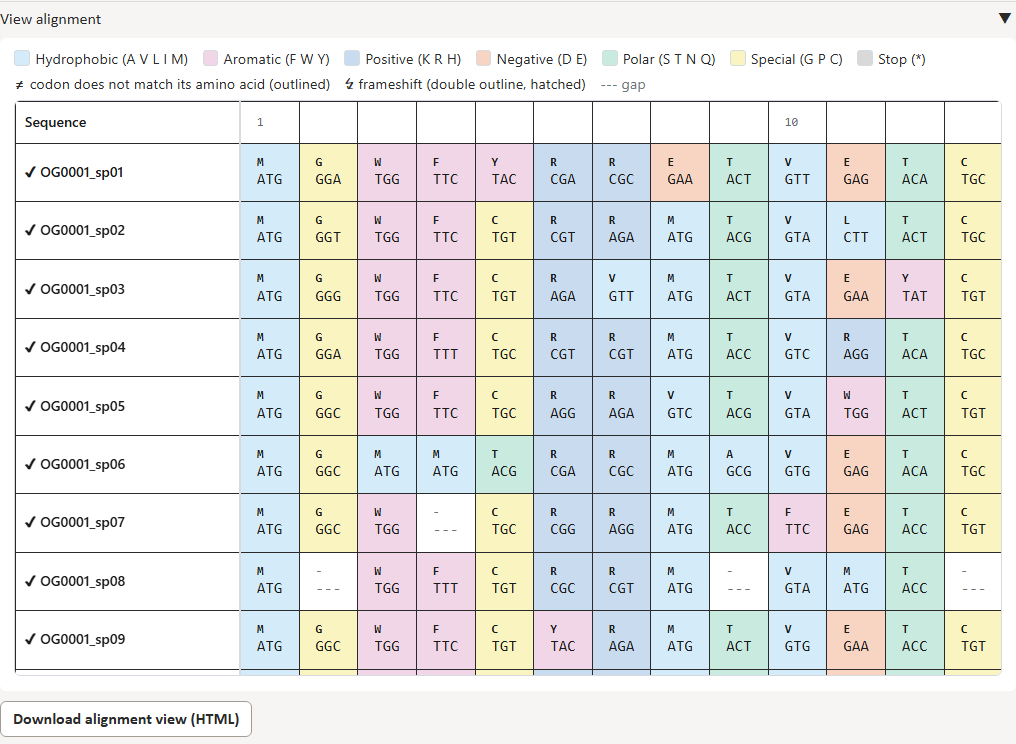
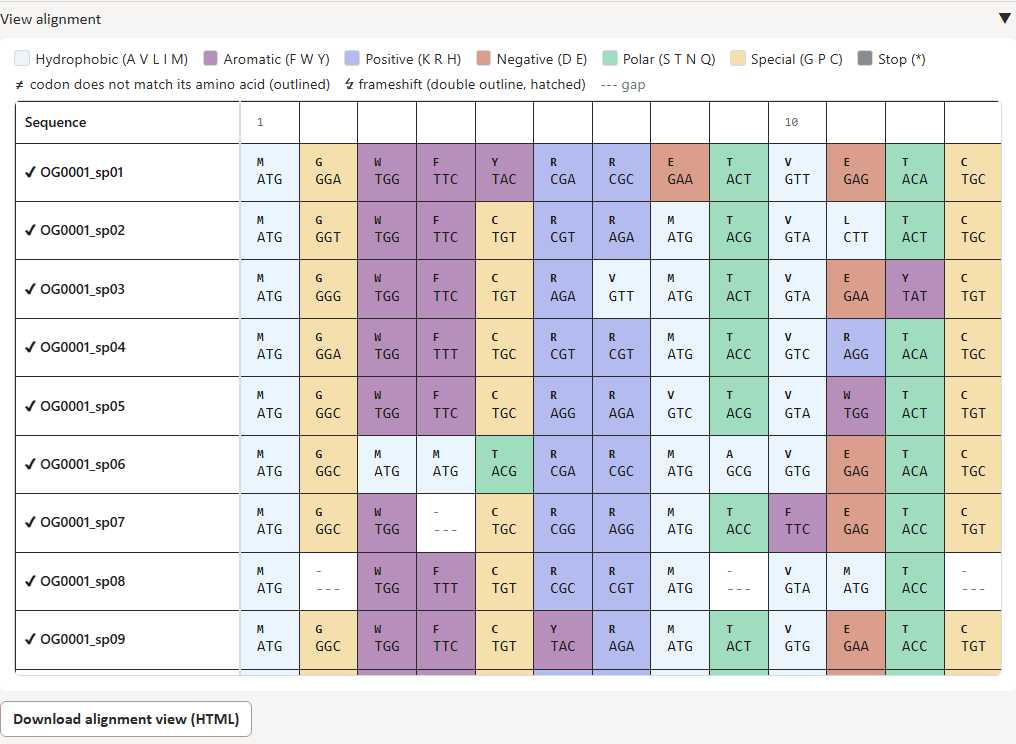
verify/REPORT.md: V-17 fixed in PR #45

diff --git a/verify/REPORT.md b/verify/REPORT.md
@@ -4,7 +4,8 @@ Branch `verify/full-2026-10-24` of a fresh clone of `main` at `4159e10` (merge o
 latest release tag `v0.5.0`; every version string in the repository is `0.5.0` (the one exception is a finding below).
 Run unattended by Claude Code following `full-test-prompt.md`; the decisions it took are in `verify/LOG.md`.
 **Update, later on 2026-10-24:** every finding V-1 to V-16 was fixed and merged into `main` as PR #44 (3d525ce);
-section 4 records a second pass at the human checklist, which added the 1,000,000-sequence benchmark and V-17.
+section 4 records a second pass at the human checklist, which added the 1,000,000-sequence benchmark and V-17, itself
+fixed in PR #45 (4eba899: the residue palette on a lightness ladder, a test holds the simulated distances).
 
 ## 1. Verdict per area
 
@@ -15,7 +16,7 @@ section 4 records a second pass at the human checklist, which added the 1,000,00
 | `pal2nal` drop-in | PASS (1 minor) | V-2: no-argument usage goes to stdout with exit 0 |
 | Report and flags | PASS | schema valid, checksums right, counts consistent, `--resume` identical after a kill in every format, both engines |
 | MCP server | PASS | both tools, every parameter, clean stdout, `save_as` rules, large-input hand-over |
-| GUI | PASS (6 usability / minor) | every control and flow right, downloads byte-identical to the CLI; V-8 CDN script vs the offline claim, V-9 axe (Gradio), V-10 tip wording, V-11 unlabelled box, V-12 error reason hidden (all fixed in PR #44); V-17 the residue palette merges for colour-blind readers (second pass, open) |
+| GUI | PASS (6 usability / minor) | every control and flow right, downloads byte-identical to the CLI; V-8 CDN script vs the offline claim, V-9 axe (Gradio), V-10 tip wording, V-11 unlabelled box, V-12 error reason hidden (all fixed in PR #44); V-17 the residue palette merged for colour-blind readers (second pass; fixed in PR #45) |
 | Windows app and installer | PASS | installer, uninstaller, both optional tasks, Claude Desktop connect/disconnect, installed and portable apps, bundled `coal-cpp.exe`, MCP via `COAL.exe`: all as documented; long paths, drag-and-drop, high-DPI, Smart App Control and a real Claude Desktop chat are on the human checklist |
 | Tests and harness | PASS (5 minor) | 502 tests pass on WSL both engines; on Windows 2 environment failures (V-14 symlink privilege, V-15 venv launcher count); V-1 fuzz neutralisation gap, V-13 explainer test skipped by its Linux-only lookup; 15 planted bugs: 12 caught, 2 equivalent mutants, 1 gap (V-16, the GUI download file) |
 | Distribution | PASS (1 docs) | wheels, sdists, git install, platform wheel with `coal-cpp` inside; V-5 stale installer name in the desktop README |
@@ -104,9 +105,10 @@ the rest.
 
 ## 5. Suggested fix order
 
-V-1 to V-16 below are fixed in PR #44 (merged into `main`); V-17, found in the second pass, is open.
+Every finding is fixed: V-1 to V-16 in PR #44 and V-17 in PR #45 (both merged into `main` on 2026-10-24). The order
+below is the one proposed before the fixes, kept for the record.
 
-0. **V-17** (GUI): a residue-class palette that also varies lightness, or a switch to turn the residue colours off.
+0. **V-17** (GUI): a residue-class palette that also varies lightness (done: Okabe-Ito hues on a lightness ladder).
 
 1. **V-12** (GUI): show the engine's reason in the banner when a run stops before pairing (one line from the raw
    messages); the message exists, it is just hidden.
